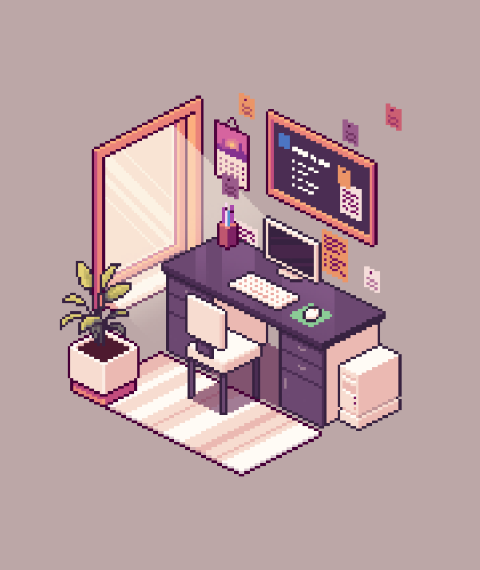
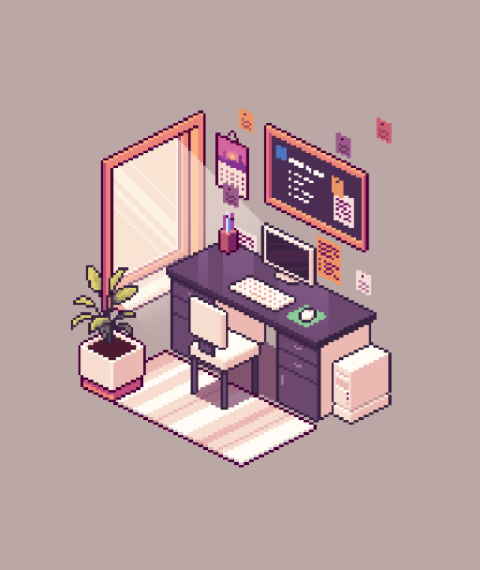
Updated Assets

Changed region(s): [[0.125, 0.1491, 0.8438, 0.8351], [0.7812, 0.1789, 0.8438, 0.2684]]

diff --git a/src/App.tsx b/src/App.tsx
@@ -3,6 +3,7 @@ import logo from './logo.svg';
 import './App.css';
 
 import work_background from './Assets/work_background.png';
+import break_background from './Assets/break_background.png';
 
 function App() {
 
@@ -95,7 +96,7 @@ function App() {
   return (
     //Requires something to wrap (Syntax)
     <div className="home-container"
-      style={{ backgroundImage: `url(${work_background})` }}>
+      style={{ backgroundImage: `url(${isBreak ? break_background : work_background})`, backgroundSize: "cover", backgroundPosition: "center>"}}>
     <div>
       <button className="closeButton">
         Close
